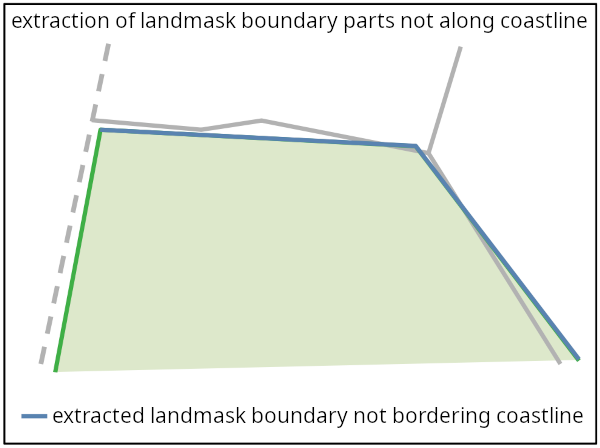
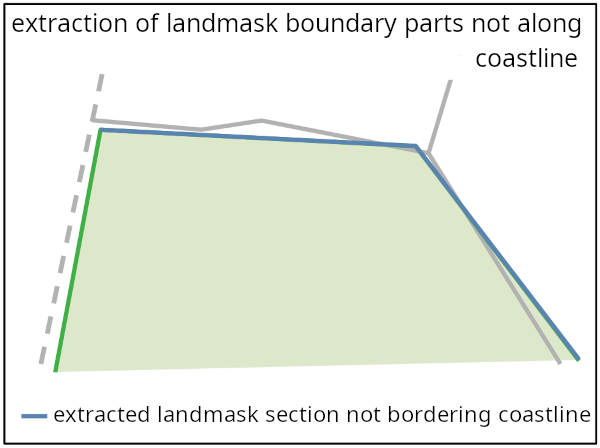
maj doc

Changed region(s): [[0.0, 0.0312, 0.99, 0.1875], [0.09, 0.9062, 0.99, 0.9688]]

diff --git a/docs/developer-guide.md b/docs/developer-guide.md
@@ -196,41 +196,42 @@ Le traitement débute par une phase préparatoire d'enregistrement en mémoire e
 
 On parcourt ensuite les unités administratives frontalières et on applique à chacune d'entre elles le traitement décrit ci-après.
 On raffine la géométrie (multi-polygone) de l'unité administrative en ajoutant des points intermédiaires correspondants aux extrémités des polylignes ouvertes issues de la table _NOCOAST_TABLE_ avec lesquelles elle est en contact.
-On instancie un opérateur _ign::geometry::algorithm::PolygonBuilderV1_ permettant de construire un polygone à partir d'un ensemble de contours fermés. Ensuite, on parcourt l'ensemble des contours de chaque polygone du multi-polygone de l'unité administrative. Chaque contour, le cas écheant, est transformé afin d'assurer sa mise en cohérence avec la frontière. A l'issu de leur traitement les contours sont ajoutés dans l'opérateur _ign::geometry::algorithm::PolygonBuilderV1_, puis une fois que tous les contours ont été parcourus cet opérateur nous permet de recontruire la ![610_2_with_key](images/610_2_with_key.png)géométrie de l'unité administrative (multi-polygone) raccordée aux frontières.
+On instancie un opérateur _ign::geometry::algorithm::PolygonBuilderV1_ permettant de construire un polygone à partir d'un ensemble de contours fermés. Ensuite, on parcourt l'ensemble des contours de chaque polygone du multi-polygone de l'unité administrative. Chaque contour, le cas écheant, est transformé afin d'assurer sa mise en cohérence avec la frontière. A l'issu de leur traitement les contours sont ajoutés dans l'opérateur _ign::geometry::algorithm::PolygonBuilderV1_, puis une fois que tous les contours ont été parcourus cet opérateur nous permet de recontruire la géométrie de l'unité administrative (multi-polygone) raccordée aux frontières.
 Voici le détail du traitement réalisé sur chacun des contours :
-    Dans un premier temps, on extrait les parties du contour qui ne sont pas en contact avec les parties non-cotières du contour de l'emprise nationale (objets de la table _NOCOAST_TABLE_). Cela est rendu possible par le fait que la géométrie de l'emprise nationale est en accostage parfait avec les unités administratives frontalières puisque issue du même millésime.
+<br>
+Dans un premier temps, on extrait les parties du contour qui ne sont pas en contact avec les parties non-cotières du contour de l'emprise nationale (objets de la table _NOCOAST_TABLE_). Cela est rendu possible par le fait que la géométrie de l'emprise nationale est en accostage parfait avec les unités administratives frontalières puisque issue du même millésime.
 
 ![630_1_with_key](images/630_1_with_key.png)
-    
-    Sont extraits également les localisations des contacts ponctuels des contours des unités administratives avec le contour de l'emprise nationale car il faudra que ce contact soit maintenu lors de la mise en cohérence.
+
+Sont extraits également les localisations des contacts ponctuels des contours des unités administratives avec le contour de l'emprise nationale car il faudra que ce contact soit maintenu lors de la mise en cohérence.
 
 ![630_2_with_key](images/630_2_with_key.png)
 
-    - Si le contour est entièrement en contact avec les parties non-cotières du contour de l'emprise nationale c'est qu'il s'agit d'une boucle (exclave, enclave, île). Dans ce cas la mise en cohérence consistera simplement à remplacer ce contour d'unité administrative par le(s) contour(s) fermé(s) de frontière correspondant(s). Il nous faut donc identifier le(s) meilleur(s) candidat(s) parmis les contours fermés de frontières préalablement indexés. Pour cela on parcourt tous les contours fermés de frontière proches (ceux dont l'envelope touche l'envelope du contour d'unité administrative) et pour chacun d'entre eux on calcule la demi-distance de Hausdorff du contour d'unité administrative vers le contour de frontière. Si cette distance est supérieure à _AU_BOUNDARY_MAX_DIST_ alors on calcule la demi-distance de Hausdorff inverse et si celle-ci est également supérieur au seuil on considère que la correspondance n'est pas établie. Dans le cas contraire ou l'une des deux distance est inférieure au seuil un lien est établi entre le contour d'unité administrative est le contour de frontière. Cette manière de procèder en séparant les calculs des deux demi-distance de Hausdorff permet le cas échéant d'établir des correspondances n-1 ou 1-n entre les contours administratifs est les contours de frontières. En effet, un contour administratif peut se voir associé à plusieurs contours de frontières, ou, inversement, plusieurs contours administratifs peuvent être associé à un même contour de frontière.
+- Si le contour est entièrement en contact avec les parties non-cotières du contour de l'emprise nationale c'est qu'il s'agit d'une boucle (exclave, enclave, île). Dans ce cas la mise en cohérence consistera simplement à remplacer ce contour d'unité administrative par le(s) contour(s) fermé(s) de frontière correspondant(s). Il nous faut donc identifier le(s) meilleur(s) candidat(s) parmis les contours fermés de frontières préalablement indexés. Pour cela on parcourt tous les contours fermés de frontière proches (ceux dont l'envelope touche l'envelope du contour d'unité administrative) et pour chacun d'entre eux on calcule la demi-distance de Hausdorff du contour d'unité administrative vers le contour de frontière. Si cette distance est supérieure à _AU_BOUNDARY_MAX_DIST_ alors on calcule la demi-distance de Hausdorff inverse et si celle-ci est également supérieur au seuil on considère que la correspondance n'est pas établie. Dans le cas contraire ou l'une des deux distance est inférieure au seuil un lien est établi entre le contour d'unité administrative est le contour de frontière. Cette manière de procèder en séparant les calculs des deux demi-distance de Hausdorff permet le cas échéant d'établir des correspondances n-1 ou 1-n entre les contours administratifs est les contours de frontières. En effet, un contour administratif peut se voir associé à plusieurs contours de frontières, ou, inversement, plusieurs contours administratifs peuvent être associé à un même contour de frontière.
 
-    - Si le contour possède des parties qui ne sont pas en contact avec les parties non-cotières du contour de l'emprise nationale, on réalise les traitements décrits ci-après.
-    Tout d'abord, on transforme le contour de l'unité administrative en déplaçant ses points intermédiaires touchant le contour de l'emprise nationale, calculés précédemment (contacts ponctuels détectés lors de l'extraction les parties du contour qui ne sont pas en contact les parties non-cotières du contour de l'emprise nationale), sur la frontière afin que ce contact soit maintenu et assurer la cohérence entre les géométries des unités administratives adjacentes après leur raccordement aux frontières. L'opérateur calculant le déplacement du point de contact recherche une projection dont la distance n'excède pas _AU_BOUNDARY_SEARCH_DIST_ et assure l'accrochage à un point intermédiaire de la frontière qui serait à une distance inférieure à _AU_BOUNDARY_SNAP_DIST_ du point projeté.
+- Si le contour possède des parties qui ne sont pas en contact avec les parties non-cotières du contour de l'emprise nationale, on réalise les traitements décrits ci-après.
+Tout d'abord, on transforme le contour de l'unité administrative en déplaçant ses points intermédiaires touchant le contour de l'emprise nationale, calculés précédemment (contacts ponctuels détectés lors de l'extraction les parties du contour qui ne sont pas en contact les parties non-cotières du contour de l'emprise nationale), sur la frontière afin que ce contact soit maintenu et assurer la cohérence entre les géométries des unités administratives adjacentes après leur raccordement aux frontières. L'opérateur calculant le déplacement du point de contact recherche une projection dont la distance n'excède pas _AU_BOUNDARY_SEARCH_DIST_ et assure l'accrochage à un point intermédiaire de la frontière qui serait à une distance inférieure à _AU_BOUNDARY_SNAP_DIST_ du point projeté.
 
 ![630_3_with_key](images/630_3_with_key.png)
 
-    On extrait de ce contour, transformé au niveau des points contacts avec la frontière, les géométries des parties qui ne sont pas en contact avec les parties non-cotières du contour de l'emprise nationale (ces parties étant définies par les indexes des points intermédiaires du contour correspondant à leurs extrémités).
-        - S'il n'existe qu'une seule partie et que c'est une polyligne fermée cela signifie que c'est un contour administratif qui n'est pas en accostage avec les parties non-cotières du contour de l'emprise nationale (mais qui peut éventuellement être en contact ponctuel). Dans ce cas le contour est conservé tel quel (avec les éventuelles transformations au niveau de contacts ponctuels).
+On extrait de ce contour, transformé au niveau des points contacts avec la frontière, les géométries des parties qui ne sont pas en contact avec les parties non-cotières du contour de l'emprise nationale (ces parties étant définies par les indexes des points intermédiaires du contour correspondant à leurs extrémités).
+    - S'il n'existe qu'une seule partie et que c'est une polyligne fermée cela signifie que c'est un contour administratif qui n'est pas en accostage avec les parties non-cotières du contour de l'emprise nationale (mais qui peut éventuellement être en contact ponctuel). Dans ce cas le contour est conservé tel quel (avec les éventuelles transformations au niveau de contacts ponctuels).
 
-        - Sinon, nous sommes dans le cas ou le contour possède des parties qui sont en contact avec les parties non-cotières du contour de l'emprise nationale et d'autres qui ne le sont pas. 
+    - Sinon, nous sommes dans le cas ou le contour possède des parties qui sont en contact avec les parties non-cotières du contour de l'emprise nationale et d'autres qui ne le sont pas. 
 
 ![630_4_with_key](images/630_4_with_key.png)
 
-        Il nous faut dans ce cas remplacer les parties en contact avec le contour de l'emprise nationale par les portions de frontière idoines.
-        Pour cela, on parcourt les parties qui ne sont pas en accostage avec le contour de l'emprise nationale. A noter que l'on a obligatoirement une alternance de parties en accostage et de parties qui ne le sont pas, les parties qui ne sont pas en accostage ont donc leurs deux extrémités en contact avec le contour de l'emprise nationale.
-        Afin de caractériser les points de contact entre les parties qui ne sont pas en accostage et le contour de l'emprise nationale on mesure les angles formés par le contour de l'emprise nationale au niveau de ces points.
-        Les parties qui ne sont pas en accostage qui croisent la frontière sont découpés selon la frontière et les parties découpés situées aux extrémités (overshots) sont supprimés. Si la géométrie résultant de cette découpe présente des segments de longueur inférieure à _AU_SEGMENT_MIN_LENGTH_ au niveau des extrémités tronquées, ces segments sont fusionnés avec leur segment adjacent.
-        Il nous faut maintenant chercher sur les frontières les points intermédiaires correspondant aux points de contact entre les parties qui ne sont pas en accostage et le contour de l'emprise nationale. Pour cela on projette tout d'abord les extrémités des parties qui ne sont pas en accostage sur la frontière, puis on recherche dans un rayon de _AU_BOUNDARY_SNAP_DIST_ autour de ce point de référence quel est le point intermédiaire de la frontière qui constitue le meilleur candidat. Afin d'évaluer chaque point intermédiaire on attribut à chacun un score dépendant de l'éloignement au point de référence et de la différence entre l'angle de référence mesuré sur le contour de l'emprise nationale et l'angle que forme la frontière au niveau de ce point.
-        Si un candidat est identifié, il est projeté sur la partie de contour d'unité administrative concernée, cette partie de contour est ensuite découpée selon ce point projeté, puis l'extrémité tronquée est déplacée vers le candidat.
+    Il nous faut dans ce cas remplacer les parties en contact avec le contour de l'emprise nationale par les portions de frontière idoines.
+    Pour cela, on parcourt les parties qui ne sont pas en accostage avec le contour de l'emprise nationale. A noter que l'on a obligatoirement une alternance de parties en accostage et de parties qui ne le sont pas, les parties qui ne sont pas en accostage ont donc leurs deux extrémités en contact avec le contour de l'emprise nationale.
+    Afin de caractériser les points de contact entre les parties qui ne sont pas en accostage et le contour de l'emprise nationale on mesure les angles formés par le contour de l'emprise nationale au niveau de ces points.
+    Les parties qui ne sont pas en accostage qui croisent la frontière sont découpés selon la frontière et les parties découpés situées aux extrémités (overshots) sont supprimés. Si la géométrie résultant de cette découpe présente des segments de longueur inférieure à _AU_SEGMENT_MIN_LENGTH_ au niveau des extrémités tronquées, ces segments sont fusionnés avec leur segment adjacent.
+    Il nous faut maintenant chercher sur les frontières les points intermédiaires correspondant aux points de contact entre les parties qui ne sont pas en accostage et le contour de l'emprise nationale. Pour cela on projette tout d'abord les extrémités des parties qui ne sont pas en accostage sur la frontière, puis on recherche dans un rayon de _AU_BOUNDARY_SNAP_DIST_ autour de ce point de référence quel est le point intermédiaire de la frontière qui constitue le meilleur candidat. Afin d'évaluer chaque point intermédiaire on attribut à chacun un score dépendant de l'éloignement au point de référence et de la différence entre l'angle de référence mesuré sur le contour de l'emprise nationale et l'angle que forme la frontière au niveau de ce point.
+    Si un candidat est identifié, il est projeté sur la partie de contour d'unité administrative concernée, cette partie de contour est ensuite découpée selon ce point projeté, puis l'extrémité tronquée est déplacée vers le candidat.
 
 ![630_5_with_key](images/630_5_with_key.png)
 
-        Maintenant que le partie du contour de l'unité administrative qui ne sont pas en accostage avec les limites internationales ont été connectée aux frontières on peut reconstituer le contour de l'unité administrative en remplaçant les partie en accostage par des portions de frontière situées entre les extémités des parties qui ne sont pas en accostage. Pour cela nous utilisons la fonction epg::tools::MultiLineStringTool::getPathAlong qui permet de rechercher un chemin sur les frontières situé entre deux points (ici les extrémités des parties qui ne sont pas en accostage) et qui s'écarte le moins possible d'une géométrie de référence. Ici la géométrie de référence est la polyligne correspondant à la partie en accostage du contour de l'emprise nationale. Le fait de chercher un chemin le long d'une géométrie de référence permet de parcourir le bon chemin sur la frontière s'il s'agit d'un trou (donc d'un contour fermé). 
-        __Important__ : si la frontière s'écarte de plus du seuil _AU_BOUNDARY_SEARCH_DIST_ de la géométrie de référence, le traitement du contour concerné est abandonné et un message du type "Error constructing ring [id] <administrative_unit_id>" est inscrit dans le fichier de log. Il revient à l'utilisateur de vérifier à l'issu du traitement si de tels messages apparaissent. Si tel est le cas, l'utilisateur devra mesurer l'écartement maximum entre les unités administratives dont l'identifiant apparait dans le log et la frontière. Il faudra ensuite adapter le paramètre _AU_BOUNDARY_SEARCH_DIST_ pour le pays concerné en choisissant une valeur supérieure à l'écartement maximum mesuré. Enfin, le traitement devra être relancé et il faudra s'assurer que le message précédemment indiqué n'apparait plus dans le fichier de log.
+    Maintenant que le partie du contour de l'unité administrative qui ne sont pas en accostage avec les limites internationales ont été connectée aux frontières on peut reconstituer le contour de l'unité administrative en remplaçant les partie en accostage par des portions de frontière situées entre les extémités des parties qui ne sont pas en accostage. Pour cela nous utilisons la fonction epg::tools::MultiLineStringTool::getPathAlong qui permet de rechercher un chemin sur les frontières situé entre deux points (ici les extrémités des parties qui ne sont pas en accostage) et qui s'écarte le moins possible d'une géométrie de référence. Ici la géométrie de référence est la polyligne correspondant à la partie en accostage du contour de l'emprise nationale. Le fait de chercher un chemin le long d'une géométrie de référence permet de parcourir le bon chemin sur la frontière s'il s'agit d'un trou (donc d'un contour fermé). 
+    __Important__ : si la frontière s'écarte de plus du seuil _AU_BOUNDARY_SEARCH_DIST_ de la géométrie de référence, le traitement du contour concerné est abandonné et un message du type "Error constructing ring [id] <administrative_unit_id>" est inscrit dans le fichier de log. Il revient à l'utilisateur de vérifier à l'issu du traitement si de tels messages apparaissent. Si tel est le cas, l'utilisateur devra mesurer l'écartement maximum entre les unités administratives dont l'identifiant apparait dans le log et la frontière. Il faudra ensuite adapter le paramètre _AU_BOUNDARY_SEARCH_DIST_ pour le pays concerné en choisissant une valeur supérieure à l'écartement maximum mesuré. Enfin, le traitement devra être relancé et il faudra s'assurer que le message précédemment indiqué n'apparait plus dans le fichier de log.
 
 ![630_6_with_key](images/630_6_with_key.png)
 <br>
